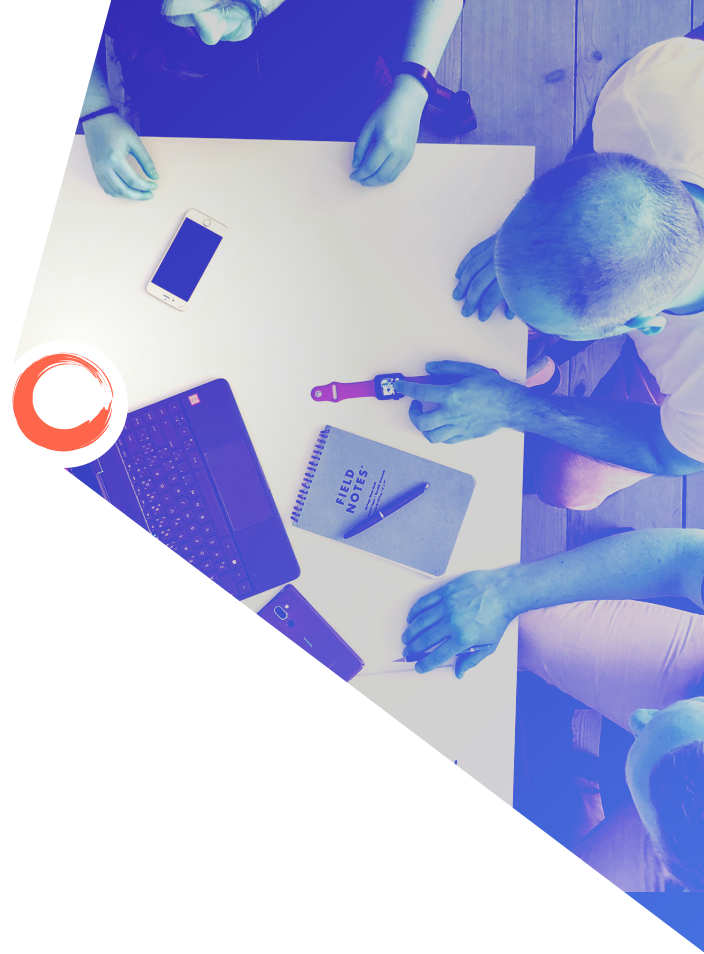
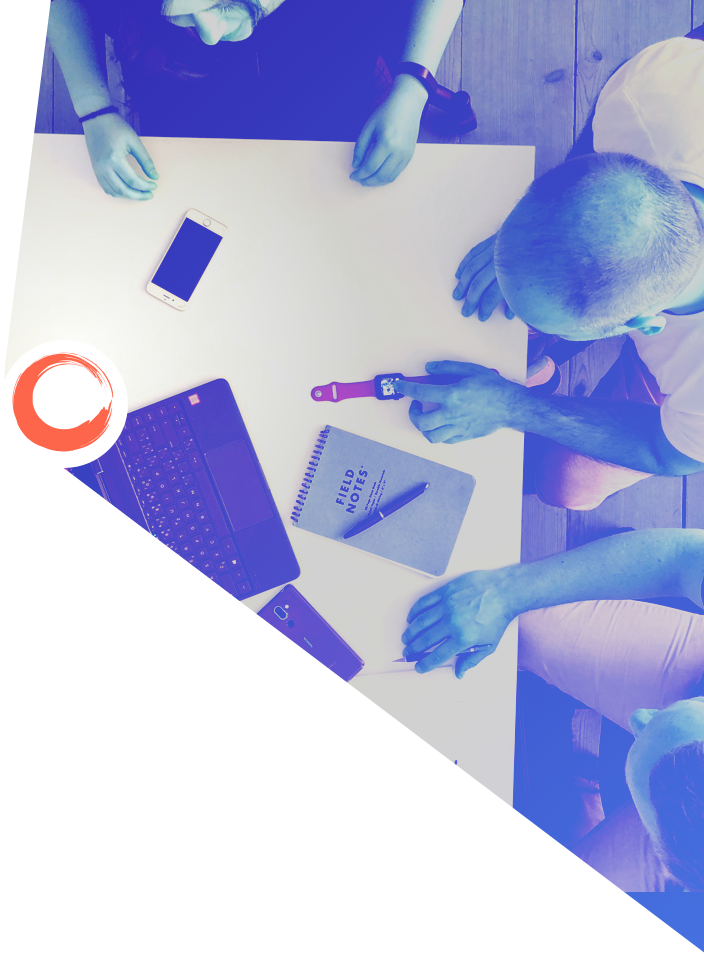
header background tweeks for mobile / tablet viewport

Changed region(s): [[0.0312, 0.0, 0.1562, 0.2736]]

diff --git a/www.topmonks.com/src/stylesheets/main.scss b/www.topmonks.com/src/stylesheets/main.scss
@@ -229,7 +229,8 @@ blockquote {
   }
   margin: 0;
   li {
-    width: 140px;
+    width: 164px;
+    margin-right: 24px;
   }
   svg {
     width: 100%;
@@ -403,7 +404,7 @@ blockquote {
 #page-topmonks-index {
   @media screen and (max-width: 479px) {
     background: #fff
-      url("https://res.cloudinary.com/topmonks/image/upload/w_352,dpr_auto,q_auto,f_auto/v1531486526/topmonks.com/bgnd_header_mobile.png")
+      url("https://res.cloudinary.com/topmonks/image/upload/w_352,dpr_auto,q_auto,f_auto/v1531754590/topmonks.com/bgnd_header_mobile.png")
       no-repeat right calc(50% - 145px) top -1px;
     background-size: 352px auto;
     overflow-x: hidden;
@@ -414,7 +415,7 @@ blockquote {
     screen and (max-width: 479px) and (min-device-pixel-ratio: 2),
     screen and (max-width: 479px) and (min-resolution: 192dpi),
     screen and (max-width: 479px) and (min-resolution: 2dppx) {
-    background-image: url("https://res.cloudinary.com/topmonks/image/upload/w_352,dpr_2,q_auto,f_auto/v1531486526/topmonks.com/bgnd_header_mobile.png");
+    background-image: url("https://res.cloudinary.com/topmonks/image/upload/w_352,dpr_2,q_auto,f_auto/v1531754590/topmonks.com/bgnd_header_mobile.png");
   }
   @media screen and (min-width: 480px) {
     background: url("https://res.cloudinary.com/topmonks/image/upload/w_1017,dpr_auto,q_auto,f_auto/v1531486239/topmonks.com/bgnd_header.png")
@@ -422,10 +423,13 @@ blockquote {
     background-size: 1017px auto;
     overflow-x: hidden;
   }
-  @media screen and (min-width: 840px) and (min-device-pixel-ratio: 2),
-    screen and (min-width: 840px) and (min-resolution: 192dpi),
-    screen and (min-width: 840px) and (min-resolution: 2dppx) {
+  @media screen and (min-width: 480px) and (min-device-pixel-ratio: 2),
+    screen and (min-width: 480px) and (min-resolution: 192dpi),
+    screen and (min-width: 480px) and (min-resolution: 2dppx) {
     background-image: url("https://res.cloudinary.com/topmonks/image/upload/w_1017,dpr_2,q_auto,f_auto/v1531486239/topmonks.com/bgnd_header.png");
+  }
+  @media screen and (min-width: 480px) and (max-width: 839px) {
+    background-position: right calc(50% - 460px) top -1px;;
   }
 
   .tm-logo {
